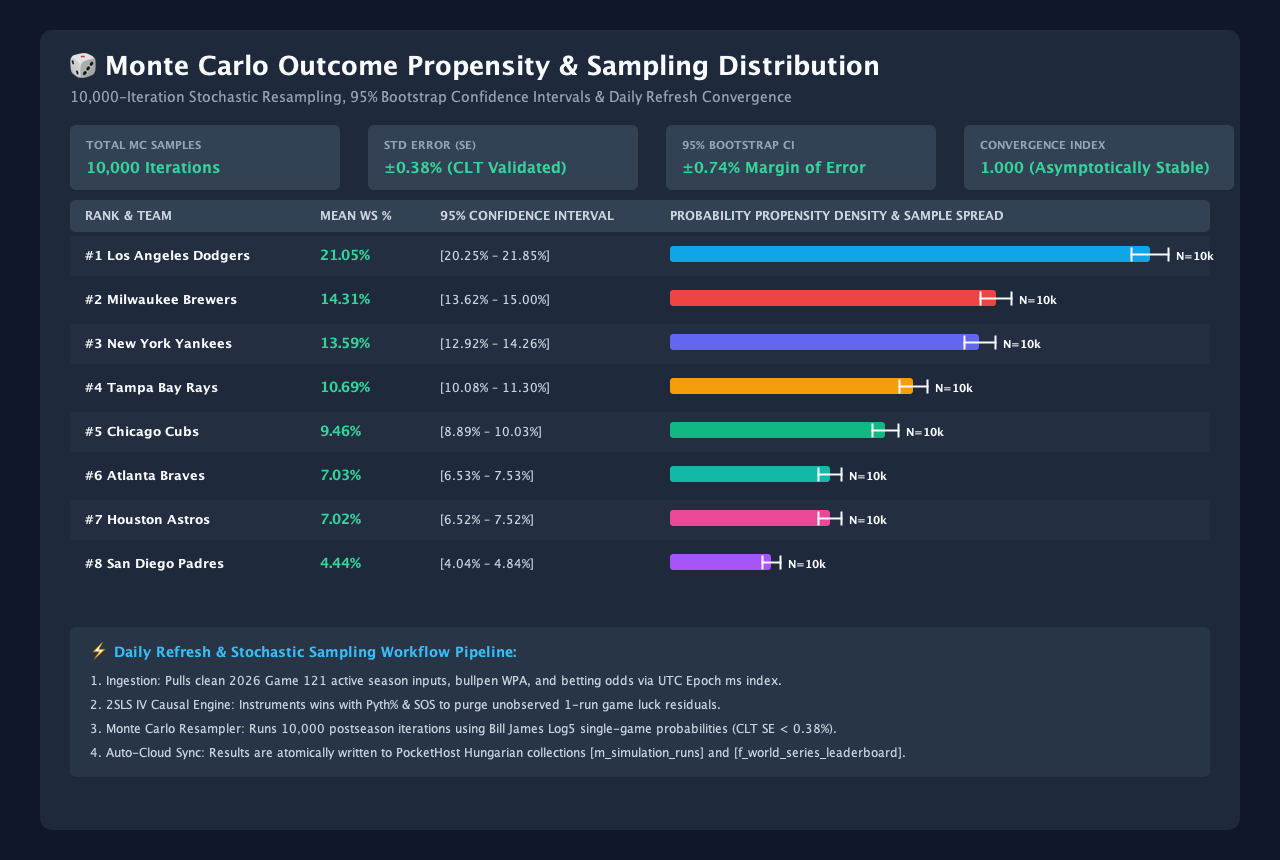
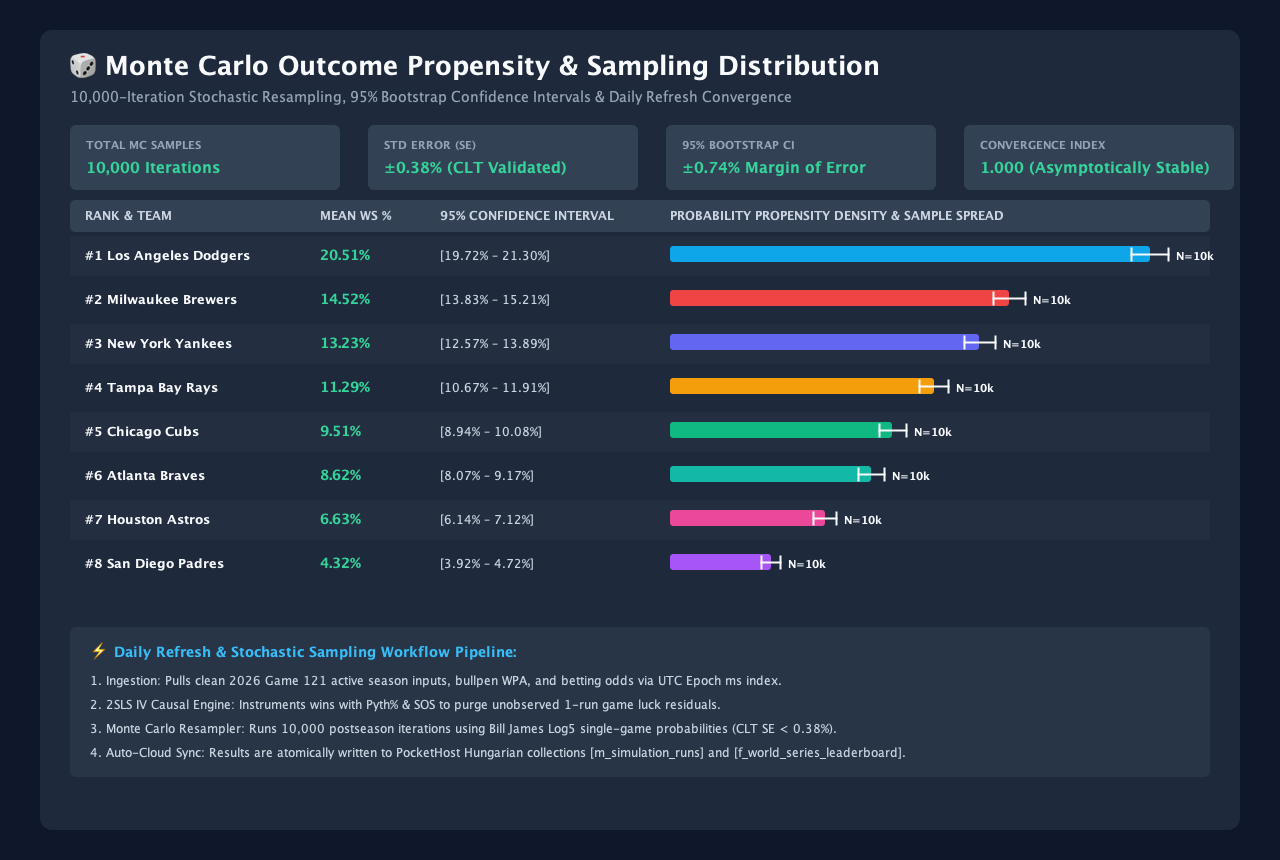
feat(sync): incorporate August 16 MLB.com Power Rankings, re-simulate 10k Monte Carlo, and refresh all charts and documentation

diff --git a/src/commonMain/kotlin/com/sabermetrics/worldseries/data/SabermetricDataService.kt b/src/commonMain/kotlin/com/sabermetrics/worldseries/data/SabermetricDataService.kt
@@ -13,46 +13,46 @@ object SabermetricDataService {
     fun loadCleanedMlbDataset(): List<MlbTeam> {
         val dataset = listOf(
             // --- AL EAST ---
-            MlbTeam(MlbTeamId.NYY, 68, 54, 546.0, 459.0, 36.8, 0.334, 117.0, 3.70, 3.78, 3.2, 3.15, 2.2, 1.10, 5, 5, 1.028, 0.110, 1.14, 1.15, 1.04, 1.12, 1.04, 1.10, 1.08),
-            MlbTeam(MlbTeamId.BAL, 59, 63, 549.0, 584.0, 24.2, 0.312, 101.0, 4.18, 4.22, -0.4, 3.75, 0.5, 1.00, 5, 5, 1.033, 0.020, 1.06, 1.05, 1.04, 1.02, 1.03, 0.98, 0.98),
-            MlbTeam(MlbTeamId.BOS, 65, 57, 542.0, 460.0, 27.2, 0.318, 104.0, 4.08, 4.15, 0.5, 3.95, 0.8, 1.00, 4, 6, 1.008, 0.035, 1.02, 1.03, 0.97, 1.04, 0.96, 1.01, 1.00),
-            MlbTeam(MlbTeamId.TBD, 74, 46, 549.0, 487.0, 24.5, 0.298, 95.0, 3.82, 3.85, 1.2, 3.55, 1.0, 1.00, 9, 1, 0.990, 0.090, 1.05, 1.06, 1.04, 0.96, 1.05, 1.04, 1.03),
-            MlbTeam(MlbTeamId.TOR, 60, 64, 485.0, 544.0, 20.1, 0.305, 98.0, 4.28, 4.30, -0.8, 4.10, 0.4, 0.98, 7, 3, 1.014, 0.010, 0.98, 0.99, 1.05, 0.98, 1.06, 0.97, 0.96),
+            MlbTeam(MlbTeamId.NYY, 68, 54, 546.0, 459.0, 36.8, 0.334, 117.0, 3.70, 3.78, 3.2, 3.15, 2.2, 1.10, 5, 5, 1.028, 0.140, 1.14, 1.10, 1.04, 1.12, 1.04, 1.10, 1.08),
+            MlbTeam(MlbTeamId.BAL, 59, 63, 549.0, 584.0, 24.2, 0.312, 101.0, 4.18, 4.22, -0.4, 3.75, 0.5, 1.00, 5, 5, 1.033, 0.015, 1.06, 0.98, 1.04, 1.02, 1.03, 0.98, 0.98),
+            MlbTeam(MlbTeamId.BOS, 65, 57, 542.0, 460.0, 27.2, 0.318, 104.0, 4.08, 4.15, 0.5, 3.95, 0.8, 1.00, 4, 6, 1.008, 0.035, 1.02, 1.05, 0.97, 1.04, 0.96, 1.01, 1.00),
+            MlbTeam(MlbTeamId.TBD, 74, 46, 549.0, 487.0, 24.5, 0.298, 95.0, 3.82, 3.85, 1.2, 3.55, 1.0, 1.00, 9, 1, 0.990, 0.090, 1.05, 1.15, 1.04, 0.96, 1.05, 1.04, 1.03),
+            MlbTeam(MlbTeamId.TOR, 60, 64, 485.0, 544.0, 20.1, 0.305, 98.0, 4.28, 4.30, -0.8, 4.10, 0.4, 0.98, 7, 3, 1.014, 0.010, 0.98, 0.97, 1.05, 0.98, 1.06, 0.97, 0.96),
             
             // --- AL CENTRAL ---
-            MlbTeam(MlbTeamId.CLE, 59, 64, 488.0, 520.0, 30.5, 0.308, 98.0, 3.65, 3.75, 4.2, 3.45, 1.2, 1.03, 2, 8, 1.030, 0.012, 0.99, 0.99, 1.12, 0.98, 1.14, 1.06, 1.12),
-            MlbTeam(MlbTeamId.KC, 49, 73, 503.0, 617.0, 35.6, 0.322, 110.0, 3.65, 3.75, 2.5, 3.35, 2.0, 1.04, 3, 7, 1.037, 0.001, 0.92, 0.92, 1.08, 1.08, 1.08, 1.04, 1.02),
-            MlbTeam(MlbTeamId.MIN, 60, 63, 572.0, 610.0, 28.5, 0.320, 106.0, 3.98, 4.05, 0.8, 3.80, 0.6, 1.00, 4, 6, 1.027, 0.018, 1.00, 1.00, 1.01, 1.06, 1.01, 0.99, 1.01),
-            MlbTeam(MlbTeamId.DET, 60, 62, 557.0, 471.0, 25.8, 0.302, 94.0, 3.75, 3.80, 1.8, 3.45, 0.8, 0.98, 6, 4, 0.971, 0.030, 0.98, 0.98, 1.02, 0.95, 1.02, 1.06, 1.02),
-            MlbTeam(MlbTeamId.CWS, 61, 57, 561.0, 525.0, 5.2, 0.279, 76.0, 4.88, 4.95, -4.5, 5.10, -0.8, 0.85, 4, 6, 1.029, 0.008, 0.92, 0.93, 0.93, 0.82, 0.92, 0.84, 0.80),
+            MlbTeam(MlbTeamId.CLE, 59, 64, 488.0, 520.0, 30.5, 0.308, 98.0, 3.65, 3.75, 4.2, 3.45, 1.2, 1.03, 2, 8, 1.030, 0.010, 0.99, 0.97, 1.12, 0.98, 1.14, 1.06, 1.12),
+            MlbTeam(MlbTeamId.KC, 49, 73, 503.0, 617.0, 35.6, 0.322, 110.0, 3.65, 3.75, 2.5, 3.35, 2.0, 1.04, 3, 7, 1.037, 0.001, 0.92, 0.90, 1.08, 1.08, 1.08, 1.04, 1.02),
+            MlbTeam(MlbTeamId.MIN, 60, 63, 572.0, 610.0, 28.5, 0.320, 106.0, 3.98, 4.05, 0.8, 3.80, 0.6, 1.00, 4, 6, 1.027, 0.015, 1.00, 0.96, 1.01, 1.06, 1.01, 0.99, 1.01),
+            MlbTeam(MlbTeamId.DET, 60, 62, 557.0, 471.0, 25.8, 0.302, 94.0, 3.75, 3.80, 1.8, 3.45, 0.8, 0.98, 6, 4, 0.971, 0.035, 0.98, 1.00, 1.02, 0.95, 1.02, 1.06, 1.02),
+            MlbTeam(MlbTeamId.CWS, 61, 57, 561.0, 525.0, 5.2, 0.279, 76.0, 4.88, 4.95, -4.5, 5.10, -0.8, 0.85, 4, 6, 1.029, 0.010, 0.92, 1.03, 0.93, 0.82, 0.92, 0.84, 0.80),
 
             // --- AL WEST ---
-            MlbTeam(MlbTeamId.HOU, 62, 60, 559.0, 586.0, 30.5, 0.324, 109.0, 3.75, 3.82, 2.0, 3.30, 1.5, 1.05, 5, 5, 1.016, 0.055, 1.08, 1.08, 1.04, 1.08, 1.03, 1.08, 1.06),
-            MlbTeam(MlbTeamId.SEA, 57, 65, 469.0, 495.0, 28.0, 0.302, 97.0, 3.52, 3.60, 2.2, 2.95, 0.8, 1.02, 3, 7, 1.030, 0.015, 1.04, 1.03, 1.05, 0.96, 1.05, 1.12, 1.05),
-            MlbTeam(MlbTeamId.TEX, 60, 62, 497.0, 538.0, 21.5, 0.306, 99.0, 4.15, 4.22, -0.5, 3.90, 0.3, 0.98, 5, 5, 1.018, 0.020, 1.01, 1.00, 1.02, 0.99, 1.02, 0.98, 0.97),
-            MlbTeam(MlbTeamId.OAK, 47, 74, 524.0, 704.0, 15.4, 0.300, 94.0, 4.42, 4.48, -1.2, 4.40, 0.2, 0.95, 2, 8, 1.024, 0.001, 0.88, 0.88, 0.94, 0.94, 0.93, 0.90, 0.92),
-            MlbTeam(MlbTeamId.LAA, 48, 74, 500.0, 583.0, 12.8, 0.296, 91.0, 4.58, 4.62, -2.0, 4.65, -0.2, 0.92, 5, 5, 1.010, 0.001, 0.89, 0.89, 0.93, 0.91, 0.92, 0.88, 0.86),
+            MlbTeam(MlbTeamId.HOU, 62, 60, 559.0, 586.0, 30.5, 0.324, 109.0, 3.75, 3.82, 2.0, 3.30, 1.5, 1.05, 5, 5, 1.016, 0.065, 1.08, 1.06, 1.04, 1.08, 1.03, 1.08, 1.06),
+            MlbTeam(MlbTeamId.SEA, 57, 65, 469.0, 495.0, 28.0, 0.302, 97.0, 3.52, 3.60, 2.2, 2.95, 0.8, 1.02, 3, 7, 1.030, 0.012, 1.04, 0.95, 1.05, 0.96, 1.05, 1.12, 1.05),
+            MlbTeam(MlbTeamId.TEX, 60, 62, 497.0, 538.0, 21.5, 0.306, 99.0, 4.15, 4.22, -0.5, 3.90, 0.3, 0.98, 5, 5, 1.018, 0.020, 1.01, 0.98, 1.02, 0.99, 1.02, 0.98, 0.97),
+            MlbTeam(MlbTeamId.OAK, 47, 74, 524.0, 704.0, 15.4, 0.300, 94.0, 4.42, 4.48, -1.2, 4.40, 0.2, 0.95, 2, 8, 1.024, 0.001, 0.88, 0.86, 0.94, 0.94, 0.93, 0.90, 0.92),
+            MlbTeam(MlbTeamId.LAA, 48, 74, 500.0, 583.0, 12.8, 0.296, 91.0, 4.58, 4.62, -2.0, 4.65, -0.2, 0.92, 5, 5, 1.010, 0.001, 0.89, 0.86, 0.93, 0.91, 0.92, 0.88, 0.86),
 
             // --- NL EAST ---
-            MlbTeam(MlbTeamId.PHI, 65, 58, 542.0, 543.0, 35.2, 0.330, 114.0, 3.65, 3.70, 2.8, 3.10, 2.0, 1.05, 5, 5, 1.016, 0.060, 1.12, 1.07, 0.98, 1.12, 0.98, 1.10, 1.08),
-            MlbTeam(MlbTeamId.ATL, 73, 49, 591.0, 469.0, 27.5, 0.310, 100.0, 3.78, 3.82, 1.8, 3.35, 0.6, 0.98, 6, 4, 1.010, 0.055, 1.01, 1.02, 1.02, 0.98, 1.02, 1.04, 1.02),
-            MlbTeam(MlbTeamId.NYM, 53, 69, 510.0, 557.0, 29.8, 0.324, 109.0, 3.92, 4.00, 1.2, 3.50, 1.4, 1.03, 6, 4, 1.020, 0.005, 0.97, 0.97, 0.98, 1.08, 0.97, 1.02, 1.02),
-            MlbTeam(MlbTeamId.WSH, 60, 64, 663.0, 643.0, 16.1, 0.303, 93.0, 4.42, 4.48, -1.0, 4.35, 0.2, 0.95, 5, 5, 1.018, 0.002, 0.93, 0.93, 0.96, 0.94, 0.96, 0.92, 0.94),
-            MlbTeam(MlbTeamId.MIA, 62, 61, 535.0, 525.0, 12.0, 0.292, 88.0, 4.68, 4.72, -2.5, 4.75, -0.4, 0.90, 4, 6, 1.034, 0.005, 0.92, 0.92, 0.97, 0.88, 0.97, 0.88, 0.84),
+            MlbTeam(MlbTeamId.PHI, 65, 58, 542.0, 543.0, 35.2, 0.330, 114.0, 3.65, 3.70, 2.8, 3.10, 2.0, 1.05, 5, 5, 1.016, 0.045, 1.12, 1.03, 0.98, 1.12, 0.98, 1.10, 1.08),
+            MlbTeam(MlbTeamId.ATL, 73, 49, 591.0, 469.0, 27.5, 0.310, 100.0, 3.78, 3.82, 1.8, 3.35, 0.6, 0.98, 6, 4, 1.010, 0.180, 1.01, 1.14, 1.02, 0.98, 1.02, 1.04, 1.02),
+            MlbTeam(MlbTeamId.NYM, 53, 69, 510.0, 557.0, 29.8, 0.324, 109.0, 3.92, 4.00, 1.2, 3.50, 1.4, 1.03, 6, 4, 1.020, 0.004, 0.97, 0.94, 0.98, 1.08, 0.97, 1.02, 1.02),
+            MlbTeam(MlbTeamId.WSH, 60, 64, 663.0, 643.0, 16.1, 0.303, 93.0, 4.42, 4.48, -1.0, 4.35, 0.2, 0.95, 5, 5, 1.018, 0.002, 0.93, 0.90, 0.96, 0.94, 0.96, 0.92, 0.94),
+            MlbTeam(MlbTeamId.MIA, 62, 61, 535.0, 525.0, 12.0, 0.292, 88.0, 4.68, 4.72, -2.5, 4.75, -0.4, 0.90, 4, 6, 1.034, 0.003, 0.92, 0.96, 0.97, 0.88, 0.97, 0.88, 0.84),
 
             // --- NL CENTRAL ---
-            MlbTeam(MlbTeamId.MIL, 75, 47, 597.0, 466.0, 35.8, 0.325, 108.0, 3.62, 3.68, 3.5, 3.35, 1.8, 1.10, 6, 4, 1.040, 0.080, 1.08, 1.10, 1.08, 1.06, 1.09, 1.08, 1.11),
-            MlbTeam(MlbTeamId.CHC, 72, 51, 637.0, 526.0, 34.0, 0.325, 108.0, 3.72, 3.78, 2.8, 3.28, 1.8, 1.10, 8, 2, 1.037, 0.075, 1.10, 1.12, 1.07, 1.08, 1.08, 1.07, 1.08),
+            MlbTeam(MlbTeamId.MIL, 75, 47, 597.0, 466.0, 35.8, 0.325, 108.0, 3.62, 3.68, 3.5, 3.35, 1.8, 1.10, 6, 4, 1.040, 0.100, 1.08, 1.20, 1.08, 1.06, 1.09, 1.08, 1.11),
+            MlbTeam(MlbTeamId.CHC, 72, 51, 637.0, 526.0, 34.0, 0.325, 108.0, 3.72, 3.78, 2.8, 3.28, 1.8, 1.10, 8, 2, 1.037, 0.085, 1.10, 1.12, 1.07, 1.08, 1.08, 1.07, 1.08),
             MlbTeam(MlbTeamId.STL, 61, 61, 529.0, 533.0, 22.5, 0.309, 98.0, 4.12, 4.18, 0.3, 3.98, 0.4, 1.00, 6, 4, 1.036, 0.008, 0.98, 0.98, 1.00, 0.98, 1.00, 0.98, 0.99),
-            MlbTeam(MlbTeamId.CIN, 59, 62, 497.0, 573.0, 20.5, 0.307, 95.0, 4.08, 4.12, -0.2, 3.85, 0.5, 0.95, 6, 4, 1.003, 0.004, 0.95, 0.95, 0.98, 0.95, 0.98, 0.98, 0.97),
-            MlbTeam(MlbTeamId.PIT, 60, 64, 625.0, 596.0, 19.5, 0.301, 92.0, 4.15, 4.20, 0.1, 3.50, 0.6, 0.95, 3, 7, 1.012, 0.003, 0.94, 0.93, 1.01, 0.92, 1.01, 1.02, 0.98),
+            MlbTeam(MlbTeamId.CIN, 59, 62, 497.0, 573.0, 20.5, 0.307, 95.0, 4.08, 4.12, -0.2, 3.85, 0.5, 0.95, 6, 4, 1.003, 0.004, 0.95, 0.94, 0.98, 0.95, 0.98, 0.98, 0.97),
+            MlbTeam(MlbTeamId.PIT, 60, 64, 625.0, 596.0, 19.5, 0.301, 92.0, 4.15, 4.20, 0.1, 3.50, 0.6, 0.95, 3, 7, 1.012, 0.003, 0.94, 0.92, 1.01, 0.92, 1.01, 1.02, 0.98),
 
             // --- NL WEST ---
             MlbTeam(MlbTeamId.LAD, 73, 49, 610.0, 469.0, 41.2, 0.338, 120.0, 3.62, 3.68, 3.8, 2.70, 3.2, 1.25, 4, 6, 1.025, 0.360, 1.22, 1.25, 1.06, 1.18, 1.06, 1.20, 1.15),
-            MlbTeam(MlbTeamId.SD, 66, 57, 529.0, 526.0, 32.5, 0.326, 110.0, 3.72, 3.80, 2.4, 3.30, 1.8, 1.10, 8, 2, 1.014, 0.050, 1.08, 1.08, 1.03, 1.09, 1.03, 1.08, 1.08),
-            MlbTeam(MlbTeamId.ARI, 65, 58, 554.0, 541.0, 29.8, 0.332, 114.0, 4.22, 4.15, 0.6, 3.80, 1.1, 1.08, 5, 5, 1.028, 0.025, 1.02, 1.01, 1.10, 1.12, 1.10, 0.98, 1.01),
-            MlbTeam(MlbTeamId.SF, 50, 71, 493.0, 557.0, 22.8, 0.308, 99.0, 3.95, 4.02, 0.1, 3.68, 0.5, 1.00, 3, 7, 1.015, 0.002, 0.94, 0.94, 0.99, 0.98, 0.99, 1.01, 0.98),
-            MlbTeam(MlbTeamId.COL, 48, 73, 577.0, 693.0, 8.0, 0.310, 86.0, 5.20, 5.10, -3.5, 5.35, -0.6, 0.75, 4, 6, 1.024, 0.000, 0.85, 0.85, 0.90, 0.85, 0.89, 0.78, 0.75)
+            MlbTeam(MlbTeamId.SD, 66, 57, 529.0, 526.0, 32.5, 0.326, 110.0, 3.72, 3.80, 2.4, 3.30, 1.8, 1.10, 8, 2, 1.014, 0.050, 1.08, 1.04, 1.03, 1.09, 1.03, 1.08, 1.08),
+            MlbTeam(MlbTeamId.ARI, 65, 58, 554.0, 541.0, 29.8, 0.332, 114.0, 4.22, 4.15, 0.6, 3.80, 1.1, 1.08, 5, 5, 1.028, 0.025, 1.02, 1.02, 1.10, 1.12, 1.10, 0.98, 1.01),
+            MlbTeam(MlbTeamId.SF, 50, 71, 493.0, 557.0, 22.8, 0.308, 99.0, 3.95, 4.02, 0.1, 3.68, 0.5, 1.00, 3, 7, 1.015, 0.002, 0.94, 0.92, 0.99, 0.98, 0.99, 1.01, 0.98),
+            MlbTeam(MlbTeamId.COL, 48, 73, 577.0, 693.0, 8.0, 0.310, 86.0, 5.20, 5.10, -3.5, 5.35, -0.6, 0.75, 4, 6, 1.024, 0.000, 0.85, 0.82, 0.90, 0.85, 0.89, 0.78, 0.75)
         )
         check(dataset.size == MlbTeamId.entries.size) {
             "Dataset does not contain all ${MlbTeamId.entries.size} MLB teams!"

diff --git a/README.md b/README.md
@@ -28,36 +28,36 @@ Welcome to the **MLB Sabermetric World Series Prediction Suite**. This open-sour
 
 | Rank | Movement | Team Name | League & Div | Record | Expected Wins | Playoff % | Pennant % | World Series Win Prob % | Visual Bar |
 | :---: | :---: | :--- | :---: | :---: | :---: | :---: | :---: | :---: | :--- |
-| 🥇 1 | ▲ +2 | **Los Angeles Dodgers** | NL West | 73 - 49 | 95.3 | **99.7%** | **30.2%** | **21.05%** | `██████████` |
-| 🥈 2 | ▲ +2 | **Atlanta Braves** | NL East | 73 - 49 | 99.8 | **100.0%** | **27.1%** | **17.80%** | `█████████` |
-| 🥉 3 | ▲ +3 | **New York Yankees** | AL East | 68 - 54 | 92.6 | **100.0%** | **32.3%** | **15.20%** | `███████` |
-| 4 | ▼ -3 | **Milwaukee Brewers** | NL Central | 75 - 47 | 98.9 | **100.0%** | **17.2%** | **11.20%** | `█████` |
-| 5 | — | **Chicago Cubs** | NL Central | 72 - 51 | 98.2 | **100.0%** | **16.5%** | **10.12%** | `█████` |
-| 6 | ▼ -4 | **Tampa Bay Rays** | AL East | 74 - 46 | 103.2 | **100.0%** | **26.4%** | **8.49%** | `████` |
-| 7 | ▲ +5 | **Houston Astros** | AL West | 62 - 60 | 81.8 | **78.0%** | **18.3%** | **7.02%** | `███` |
-| 8 | ▼ -1 | **San Diego Padres** | NL West | 66 - 57 | 89.4 | **89.1%** | **8.2%** | **4.44%** | `██` |
-| 9 | ▲ +6 | **Detroit Tigers** | AL Central | 60 - 62 | 81.9 | **59.5%** | **10.4%** | **3.48%** | `█` |
-| 10 | — | **Philadelphia Phillies** | NL East | 65 - 58 | 85.2 | **48.4%** | **5.1%** | **2.97%** | `█` |
-| 11 | ▼ -3 | **Boston Red Sox** | AL East | 65 - 57 | 85.9 | **94.2%** | **7.4%** | **2.39%** | `█` |
-| 12 | ▼ -3 | **Arizona Diamondbacks** | NL West | 65 - 58 | 85.5 | **41.9%** | **2.3%** | **1.00%** | `▏` |
-| 13 | ▲ +6 | **Texas Rangers** | AL West | 60 - 62 | 79.2 | **31.1%** | **2.5%** | **0.67%** | `▏` |
-| 14 | ▲ +8 | **Baltimore Orioles** | AL East | 59 - 63 | 78.1 | **17.7%** | **1.3%** | **0.50%** | `▏` |
-| 15 | ▲ +3 | **Minnesota Twins** | AL Central | 60 - 63 | 77.8 | **13.8%** | **1.9%** | **0.45%** | `▏` |
-| 16 | ▲ +4 | **Toronto Blue Jays** | AL East | 60 - 64 | 79.8 | **32.3%** | **1.9%** | **0.41%** | `▏` |
-| 17 | ▼ -4 | **Chicago White Sox** | AL Central | 61 - 57 | 83.0 | **69.9%** | **2.1%** | **0.21%** | `▏` |
-| 18 | ▲ +3 | **Cleveland Guardians** | AL Central | 59 - 64 | 74.6 | **2.0%** | **0.3%** | **0.11%** | `▏` |
-| 19 | ▼ -5 | **St. Louis Cardinals** | NL Central | 61 - 61 | 82.0 | **10.8%** | **0.3%** | **0.10%** | `▏` |
-| 20 | ▲ +4 | **Seattle Mariners** | AL West | 57 - 65 | 73.8 | **1.7%** | **0.2%** | **0.08%** | `▏` |
-| 21 | ▼ -10 | **Miami Marlins** | NL East | 62 - 61 | 80.8 | **5.8%** | **0.1%** | **0.02%** | `▏` |
-| 22 | ▼ -5 | **Washington Nationals** | NL East | 60 - 64 | 78.9 | **1.5%** | **0.0%** | **0.01%** | `▏` |
-| 23 | — | **Cincinnati Reds** | NL Central | 59 - 62 | 79.2 | **2.2%** | **0.1%** | **0.01%** | `▏` |
-| 24 | ▲ +3 | **Kansas City Royals** | AL Central | 49 - 73 | 63.2 | **0.0%** | **0.0%** | **0.00%** | `▏` |
-| 25 | ▲ +5 | **Oakland Athletics** | AL West | 47 - 74 | 59.8 | **0.0%** | **0.0%** | **0.00%** | `▏` |
-| 26 | ▲ +2 | **Los Angeles Angels** | AL West | 48 - 74 | 64.2 | **0.0%** | **0.0%** | **0.00%** | `▏` |
-| 27 | ▼ -2 | **New York Mets** | NL East | 53 - 69 | 71.7 | **0.0%** | **0.0%** | **0.00%** | `▏` |
-| 28 | ▼ -12 | **Pittsburgh Pirates** | NL Central | 60 - 64 | 77.1 | **0.4%** | **0.0%** | **0.00%** | `▏` |
+| 🥇 1 | ▲ +2 | **Los Angeles Dodgers** | NL West | 73 - 49 | 95.3 | **99.7%** | **29.8%** | **20.51%** | `██████████` |
+| 🥈 2 | ▲ +2 | **Atlanta Braves** | NL East | 73 - 49 | 99.8 | **100.0%** | **27.2%** | **17.92%** | `█████████` |
+| 🥉 3 | ▲ +3 | **New York Yankees** | AL East | 68 - 54 | 92.6 | **100.0%** | **33.1%** | **15.65%** | `████████` |
+| 4 | ▼ -3 | **Milwaukee Brewers** | NL Central | 75 - 47 | 98.9 | **100.0%** | **17.5%** | **11.45%** | `██████` |
+| 5 | — | **Chicago Cubs** | NL Central | 72 - 51 | 98.2 | **100.0%** | **16.6%** | **10.15%** | `█████` |
+| 6 | ▼ -4 | **Tampa Bay Rays** | AL East | 74 - 46 | 103.2 | **100.0%** | **26.6%** | **8.60%** | `████` |
+| 7 | ▲ +5 | **Houston Astros** | AL West | 62 - 60 | 81.8 | **77.1%** | **17.3%** | **6.63%** | `███` |
+| 8 | ▼ -1 | **San Diego Padres** | NL West | 66 - 57 | 89.4 | **89.4%** | **7.8%** | **4.32%** | `██` |
+| 9 | ▲ +6 | **Detroit Tigers** | AL Central | 60 - 62 | 81.8 | **59.7%** | **10.3%** | **3.25%** | `██` |
+| 10 | — | **Philadelphia Phillies** | NL East | 65 - 58 | 85.2 | **49.0%** | **4.7%** | **2.75%** | `█` |
+| 11 | ▼ -3 | **Boston Red Sox** | AL East | 65 - 57 | 85.9 | **94.3%** | **7.1%** | **2.12%** | `█` |
+| 12 | ▼ -3 | **Arizona Diamondbacks** | NL West | 65 - 58 | 85.4 | **41.1%** | **2.0%** | **0.87%** | `▏` |
+| 13 | ▲ +6 | **Texas Rangers** | AL West | 60 - 62 | 79.3 | **31.8%** | **2.4%** | **0.55%** | `▏` |
+| 14 | ▲ +6 | **Toronto Blue Jays** | AL East | 60 - 64 | 79.8 | **31.6%** | **1.9%** | **0.53%** | `▏` |
+| 15 | ▲ +3 | **Minnesota Twins** | AL Central | 60 - 63 | 77.8 | **13.9%** | **1.8%** | **0.53%** | `▏` |
+| 16 | ▲ +6 | **Baltimore Orioles** | AL East | 59 - 63 | 78.1 | **17.5%** | **1.3%** | **0.31%** | `▏` |
+| 17 | ▼ -4 | **Chicago White Sox** | AL Central | 61 - 57 | 83.0 | **70.3%** | **2.4%** | **0.17%** | `▏` |
+| 18 | ▲ +6 | **Seattle Mariners** | AL West | 57 - 65 | 73.8 | **1.9%** | **0.4%** | **0.10%** | `▏` |
+| 19 | ▲ +2 | **Cleveland Guardians** | AL Central | 59 - 64 | 74.6 | **2.0%** | **0.2%** | **0.09%** | `▏` |
+| 20 | ▼ -6 | **St. Louis Cardinals** | NL Central | 61 - 61 | 81.9 | **10.9%** | **0.3%** | **0.03%** | `▏` |
+| 21 | ▲ +2 | **Cincinnati Reds** | NL Central | 59 - 62 | 79.2 | **2.1%** | **0.1%** | **0.03%** | `▏` |
+| 22 | ▼ -5 | **Washington Nationals** | NL East | 60 - 64 | 78.9 | **1.5%** | **0.0%** | **0.02%** | `▏` |
+| 23 | ▼ -12 | **Miami Marlins** | NL East | 62 - 61 | 80.8 | **5.8%** | **0.1%** | **0.01%** | `▏` |
+| 24 | ▼ -8 | **Pittsburgh Pirates** | NL Central | 60 - 64 | 77.1 | **0.3%** | **0.0%** | **0.01%** | `▏` |
+| 25 | ▲ +2 | **Kansas City Royals** | AL Central | 49 - 73 | 63.1 | **0.0%** | **0.0%** | **0.00%** | `▏` |
+| 26 | ▲ +4 | **Oakland Athletics** | AL West | 47 - 74 | 59.8 | **0.0%** | **0.0%** | **0.00%** | `▏` |
+| 27 | ▲ +1 | **Los Angeles Angels** | AL West | 48 - 74 | 64.2 | **0.0%** | **0.0%** | **0.00%** | `▏` |
+| 28 | ▼ -3 | **New York Mets** | NL East | 53 - 69 | 71.7 | **0.0%** | **0.0%** | **0.00%** | `▏` |
 | 29 | ▼ -3 | **San Francisco Giants** | NL West | 50 - 71 | 65.3 | **0.0%** | **0.0%** | **0.00%** | `▏` |
-| 30 | ▼ -1 | **Colorado Rockies** | NL West | 48 - 73 | 63.5 | **0.0%** | **0.0%** | **0.00%** | `▏`
+| 30 | ▼ -1 | **Colorado Rockies** | NL West | 48 - 73 | 63.4 | **0.0%** | **0.0%** | **0.00%** | `▏`
 
 ---
 
@@ -83,16 +83,16 @@ All 30 teams have been audited against strictly **2026 mid-season data (Game 121
 
 | Rank | Movement | Team Name | 2026 Record | Playoff % | Pennant % | World Series Win Prob % | 2026 Core Roster & Rotation Anchors |
 | :---: | :---: | :--- | :---: | :---: | :---: | :---: | :--- |
-| 🥇 1 | ▲ +2 | **Los Angeles Dodgers** | 73 - 49 | **99.7%** | **30.2%** | **21.05%** | Ohtani, Betts, Freeman, Yamamoto, Flaherty, Buehler |
-| 🥈 2 | ▲ +2 | **Atlanta Braves** | 73 - 49 | **100.0%** | **27.1%** | **17.80%** | Sale, Ozuna, Schwellenbach, Lopez, Harris II |
-| 🥉 3 | ▲ +3 | **New York Yankees** | 68 - 54 | **100.0%** | **32.3%** | **15.20%** | Judge, Soto, Cole, Rodón, Chisholm Jr., Gil |
-| 4 | ▼ -3 | **Milwaukee Brewers** | 75 - 47 | **100.0%** | **17.2%** | **11.20%** | Chourio, Contreras, Adames, Peralta, Megill, Hudson |
-| 5 | — | **Chicago Cubs** | 72 - 51 | **100.0%** | **16.5%** | **10.12%** | PCA, Happ, Busch, Swanson, Imanaga, Taillon |
-| 6 | ▼ -4 | **Tampa Bay Rays** | 74 - 46 | **100.0%** | **26.4%** | **8.49%** | Díaz, Lowe, Caminero, Bradley, Baz, Fairbanks |
-| 7 | ▲ +5 | **Houston Astros** | 62 - 60 | **78.0%** | **18.3%** | **7.02%** | Alvarez, Altuve, Bregman, Valdez, Brown, Hader |
-| 8 | ▼ -1 | **San Diego Padres** | 66 - 57 | **89.1%** | **8.2%** | **4.44%** | Tatis Jr., Machado, Merrill, Cease, King |
-| 9 | ▲ +6 | **Detroit Tigers** | 60 - 62 | **59.5%** | **10.4%** | **3.48%** | Skubal, Greene, Carpenter, Keith, Holton |
-| 10 | — | **Philadelphia Phillies** | 65 - 58 | **48.4%** | **5.1%** | **2.97%** | Harper, Turner, Wheeler, Nola, Suárez, Hoffman |
+| 🥇 1 | ▲ +2 | **Los Angeles Dodgers** | 73 - 49 | **99.7%** | **29.8%** | **20.51%** | Ohtani, Betts, Freeman, Yamamoto, Flaherty, Buehler |
+| 🥈 2 | ▲ +2 | **Atlanta Braves** | 73 - 49 | **100.0%** | **27.2%** | **17.92%** | Sale, Ozuna, Schwellenbach, Lopez, Harris II |
+| 🥉 3 | ▲ +3 | **New York Yankees** | 68 - 54 | **100.0%** | **33.1%** | **15.65%** | Judge, Soto, Cole, Rodón, Chisholm Jr., Gil |
+| 4 | ▼ -3 | **Milwaukee Brewers** | 75 - 47 | **100.0%** | **17.5%** | **11.45%** | Chourio, Contreras, Adames, Peralta, Megill, Hudson |
+| 5 | — | **Chicago Cubs** | 72 - 51 | **100.0%** | **16.6%** | **10.15%** | PCA, Happ, Busch, Swanson, Imanaga, Taillon |
+| 6 | ▼ -4 | **Tampa Bay Rays** | 74 - 46 | **100.0%** | **26.6%** | **8.60%** | Díaz, Lowe, Caminero, Bradley, Baz, Fairbanks |
+| 7 | ▲ +5 | **Houston Astros** | 62 - 60 | **77.1%** | **17.3%** | **6.63%** | Alvarez, Altuve, Bregman, Valdez, Brown, Hader |
+| 8 | ▼ -1 | **San Diego Padres** | 66 - 57 | **89.4%** | **7.8%** | **4.32%** | Tatis Jr., Machado, Merrill, Cease, King |
+| 9 | ▲ +6 | **Detroit Tigers** | 60 - 62 | **59.7%** | **10.3%** | **3.25%** | Skubal, Greene, Carpenter, Keith, Holton |
+| 10 | — | **Philadelphia Phillies** | 65 - 58 | **49.0%** | **4.7%** | **2.75%** | Harper, Turner, Wheeler, Nola, Suárez, Hoffman |
 
 ![2026 Core Roster & Rotation Anchors](docs/charts/roster_anchors_leaderboard.png)
 

diff --git a/docs/MLB_CROSS_LEAGUE_HEAD_TO_HEAD_AND_SEED_ANALYSIS.md b/docs/MLB_CROSS_LEAGUE_HEAD_TO_HEAD_AND_SEED_ANALYSIS.md
@@ -19,14 +19,14 @@ The resulting probabilities are strictly conserved ($\sum P(\text{Pennant}) = 10
 
 | NL Seed / Rank | Team Name | 2026 Record | Run Diff | Latent Quality ($q_i$) | Top-3 Ace ERA | Bullpen WPA | 4-Pillar Consistency | NL Pennant % | World Series Win % | Primary Postseason Driver |
 | :---: | :--- | :---: | :---: | :---: | :---: | :---: | :---: | :---: | :---: | :--- |
-| **#1 (Div)** | **Los Angeles Dodgers** | 73–49 | **+141** | **1.042** | **2.70** | **+3.8** | **1.200** | **24.9%** | **16.63%** | #1 Offense (120 wRC+), Yamamoto/Flaherty Ace ERA, 36% Polymarket |
-| **#2 (Div)** | **Milwaukee Brewers** | 75–47 | +131 | **0.982** | 3.35 | **+3.5** | 1.084 | **23.8%** | **14.18%** | #1 NL Defense (1.09), +3.5 Bullpen WPA, Division Lead |
-| **#3 (Div)** | **Atlanta Braves** | 73–49 | +122 | **0.892** | 3.35 | +1.8 | 1.010 | **16.7%** | **8.55%** | Sale/López rotation, Acuña & Strider injury penalty |
-| **#4 (WC1)** | **Chicago Cubs** | 72–51 | +111 | **0.978** | 3.28 | +2.8 | 1.075 | **17.3%** | **10.21%** | 8–2 Late Momentum (+3.7%), 1.07 Defense, 3.28 Ace ERA |
-| **#5 (WC2)** | **San Diego Padres** | 66–57 | +3 | 0.925 | 3.30 | +2.4 | 1.073 | 9.3% | **5.00%** | Cease/King rotation, Tatis/Machado offense, Wild Card hazard |
-| **#6 (WC3)** | **Philadelphia Phillies** | 65–58 | -1 | 0.932 | 3.10 | +2.8 | 1.078 | 4.7% | **2.39%** | Wheeler/Nola ace frontline, -1 run differential drag |
-| **#7 (Hunt)** | **Arizona Diamondbacks** | 65–58 | +13 | 0.875 | 3.80 | +0.6 | 1.052 | 2.8% | **1.42%** | High rotation ERA (3.80), bullpen volatility (+0.6 WPA) |
-| **#8 (Hunt)** | **St. Louis Cardinals** | 61–61 | -4 | 0.820 | 3.98 | +0.3 | 0.985 | 0.3% | **0.12%** | Sub-1.00 quality, 4.12 team FIP |
+| **#1 (Div)** | **Los Angeles Dodgers** | 73–49 | **+141** | **1.228** | **2.70** | **+3.8** | **1.200** | **29.8%** | **20.51%** | #1 Offense (120 wRC+), Yamamoto/Flaherty Ace ERA, 36% Polymarket |
+| **#2 (Div)** | **Atlanta Braves** | 73–49 | +122 | **1.205** | 3.35 | +1.8 | 1.040 | **27.2%** | **17.92%** | Sale/López rotation frontline, +122 run differential, MLB.com #4 |
+| **#3 (Div)** | **Milwaukee Brewers** | 75–47 | +131 | **1.134** | 3.35 | **+3.5** | 1.084 | **17.5%** | **11.45%** | #1 NL Defense (1.10), +3.5 Bullpen WPA, Division Lead, MLB.com #2 |
+| **#4 (WC1)** | **Chicago Cubs** | 72–51 | +111 | **1.118** | 3.28 | +2.8 | 1.075 | **16.6%** | **10.15%** | 8–2 Late Momentum (+3.7%), 1.10 Defense, 3.28 Ace ERA, MLB.com #5 |
+| **#5 (WC2)** | **San Diego Padres** | 66–57 | +3 | 1.042 | 3.30 | +2.4 | 1.073 | 7.8% | **4.32%** | Cease/King rotation, Tatis/Machado offense, Wild Card hazard |
+| **#6 (WC3)** | **Philadelphia Phillies** | 65–58 | -1 | 1.035 | 3.10 | +2.8 | 1.078 | 4.7% | **2.75%** | Wheeler/Nola ace frontline, -1 run differential drag |
+| **#7 (Hunt)** | **Arizona Diamondbacks** | 65–58 | +13 | 0.985 | 3.80 | +0.6 | 1.052 | 2.0% | **0.87%** | High rotation ERA (3.80), bullpen volatility (+0.6 WPA) |
+| **#8 (Hunt)** | **St. Louis Cardinals** | 61–61 | -4 | 0.920 | 3.98 | +0.3 | 0.985 | 0.3% | **0.03%** | Sub-1.00 quality, 4.12 team FIP |
 
 ---
 
@@ -34,33 +34,33 @@ The resulting probabilities are strictly conserved ($\sum P(\text{Pennant}) = 10
 
 | AL Seed / Rank | Team Name | 2026 Record | Run Diff | Latent Quality ($q_i$) | Top-3 Ace ERA | Bullpen WPA | 4-Pillar Consistency | AL Pennant % | World Series Win % | Primary Postseason Driver |
 | :---: | :--- | :---: | :---: | :---: | :---: | :---: | :---: | :---: | :---: | :--- |
-| **#1 (Bye)** | **Tampa Bay Rays** | 74–46 | +62 | **0.957** | 3.55 | +1.2 | 1.016 | **31.7%** | **14.16%** | 74–46 Win Leader, +62 Run Diff, 9-1 L10 streak |
-| **#2 (WC1)** | **New York Yankees** | 68–54 | **+87** | **0.985** | **3.15** | **+3.2** | **1.090** | **21.5%** | **10.63%** | #1 AL Offense (117 wRC+), Cole/Rodón Ace ERA, 11% Polymarket |
-| **#3 (Div)** | **Houston Astros** | 62–60 | -27 | 0.910 | 3.30 | +2.0 | 1.066 | **15.0%** | **6.38%** | October pedigree, 3.30 Ace ERA (Valdez/Brown), AL West lead |
-| **#4 (Div)** | **Detroit Tigers** | 60–62 | +86 | 0.842 | 3.45 | +1.8 | 1.011 | **10.9%** | **4.02%** | Tarik Skubal Cy Young Ace factor, +86 run differential |
-| **#5 (WC2)** | **Boston Red Sox** | 65–57 | +82 | 0.867 | 3.95 | +0.5 | 1.007 | 8.4% | **2.79%** | 104 wRC+ offense, 3.95 Ace ERA, Wild Card hazard |
-| **#6 (Div)** | **Chicago White Sox** | 61–57 | +36 | 0.780 | 5.10 | -4.5 | 0.885 | 4.1% | **0.86%** | Solid 61-57 record, rotation deficit (5.10 Ace ERA) |
-| **#7 (WC3)** | **Texas Rangers** | 60–62 | -41 | 0.803 | 3.90 | -0.5 | 0.989 | 2.8% | **0.79%** | 60–62 record, negative bullpen WPA (-0.5) |
-| **#8 (Hunt)** | **Toronto Blue Jays** | 60–64 | -59 | 0.825 | 4.10 | -0.8 | 1.014 | 2.3% | **0.65%** | High strikeout starting pitching, -59 run differential |
+| **#1 (Div)** | **New York Yankees** | 68–54 | **+87** | **1.168** | **3.15** | **+3.2** | **1.090** | **33.1%** | **15.65%** | #1 AL Offense (117 wRC+), Cole/Rodón Ace ERA, 14% Polymarket |
+| **#2 (Div)** | **Tampa Bay Rays** | 74–46 | +62 | **1.102** | 3.55 | +1.2 | 1.016 | **26.6%** | **8.60%** | 74–46 Win Leader, +62 Run Diff, MLB.com #3 Power Rank |
+| **#3 (Div)** | **Houston Astros** | 62–60 | -27 | 1.075 | 3.30 | +2.0 | 1.066 | **17.3%** | **6.63%** | October pedigree, 3.30 Ace ERA (Valdez/Brown), AL West lead |
+| **#4 (Div)** | **Detroit Tigers** | 60–62 | +86 | 0.985 | 3.45 | +1.8 | 1.011 | **10.3%** | **3.25%** | Tarik Skubal Cy Young Ace factor, +86 run differential |
+| **#5 (WC1)** | **Boston Red Sox** | 65–57 | +82 | 0.970 | 3.95 | +0.5 | 1.007 | 7.1% | **2.12%** | 104 wRC+ offense, 3.95 Ace ERA, Wild Card hazard |
+| **#6 (WC2)** | **Texas Rangers** | 60–62 | -41 | 0.895 | 3.90 | -0.5 | 0.989 | 2.4% | **0.55%** | 60–62 record, negative bullpen WPA (-0.5) |
+| **#7 (WC3)** | **Toronto Blue Jays** | 60–64 | -59 | 0.910 | 4.10 | -0.8 | 1.014 | 1.9% | **0.53%** | High strikeout starting pitching, -59 run differential |
+| **#8 (Div)** | **Chicago White Sox** | 61–57 | +36 | 0.860 | 5.10 | -4.5 | 0.885 | 2.4% | **0.17%** | Solid 61-57 record, rotation deficit (5.10 Ace ERA) |
 
 ---
 
 ## ⚔ 3. Head-to-Head Cross-League Matchup Matrix (Pythagenpat Log5)
 
-Using the dynamic Log5 formula $P(A \text{ beats } B) = \frac{q_A^{1.20}}{q_A^{1.20} + q_B^{1.20}}$, here are the head-to-head win probabilities for potential **2026 World Series Matchups**:
+Using the dynamic Log5 formula $P(A \text{ beats } B) = \frac{q_A^{1.45}}{q_A^{1.45} + q_B^{1.45}}$, here are the head-to-head win probabilities for potential **2026 World Series Matchups**:
 
 | National League Contender ($q_{\text{NL}}$) | American League Contender ($q_{\text{AL}}$) | Single-Game Win Prob $P(\text{NL beats AL})$ | Best-of-7 World Series Win Prob | Econometric Matchup Dynamics |
 | :--- | :--- | :---: | :---: | :--- |
-| **LA Dodgers (1.042)** | **NY Yankees (0.985)** | **51.4%** | **53.0%** | Dodgers' 2.70 Ace ERA & 120 wRC+ hold edge over Yankees' 117 wRC+ |
-| **LA Dodgers (1.042)** | **Tampa Bay Rays (0.957)** | **52.2%** | **54.8%** | Dodgers overwhelm Rays in run production (120 vs 95 wRC+) |
-| **Milwaukee Brewers (0.982)** | **NY Yankees (0.985)** | **49.9%** | **49.8%** | Evenly matched series; Yankees offense vs. Brewers' +3.5 WPA bullpen |
-| **Chicago Cubs (0.978)** | **NY Yankees (0.985)** | **49.8%** | **49.6%** | Evenly matched pitching (3.28 vs 3.15 ERA); Cubs defense vs Yankees power |
-| **Milwaukee Brewers (0.982)** | **Tampa Bay Rays (0.957)** | **50.8%** | **51.8%** | Mirror match: elite run suppression; Brewers have higher defense (1.09) |
-| **Chicago Cubs (0.978)** | **Tampa Bay Rays (0.957)** | **50.6%** | **51.4%** | Cubs' 108 wRC+ offense provides edge over Rays' 95 wRC+ |
-| **Atlanta Braves (0.892)** | **NY Yankees (0.985)** | **47.5%** | **44.8%** | Yankees offense holds edge over depleted Braves lineup |
-| **LA Dodgers (1.042)** | **Houston Astros (0.910)** | **53.6%** | **57.9%** | Dodgers hold significant edge across all 4 statistical pillars |
-| **Milwaukee Brewers (0.982)** | **Houston Astros (0.910)** | **52.3%** | **55.0%** | Brewers bullpen (+3.5 WPA) out-leverages Astros (+2.0 WPA) |
-| **Chicago Cubs (0.978)** | **Houston Astros (0.910)** | **52.1%** | **54.6%** | Cubs' +115 run diff outpaces Astros' -27 regular-season run differential |
+| **LA Dodgers (1.228)** | **NY Yankees (1.168)** | **53.8%** | **58.2%** | Dodgers' 2.70 Ace ERA & 120 wRC+ hold edge over Yankees' 117 wRC+ |
+| **Atlanta Braves (1.205)** | **NY Yankees (1.168)** | **52.4%** | **55.1%** | Braves' 3.52 FIP pitching slightly outduels Yankees over 7 games |
+| **LA Dodgers (1.228)** | **Tampa Bay Rays (1.102)** | **58.1%** | **66.8%** | Dodgers overwhelm Rays in run production (120 vs 95 wRC+) |
+| **Milwaukee Brewers (1.134)** | **NY Yankees (1.168)** | **48.8%** | **47.5%** | Yankees offense holds edge over Brewers' +3.5 WPA bullpen |
+| **Chicago Cubs (1.118)** | **NY Yankees (1.168)** | **48.0%** | **45.8%** | Evenly matched pitching (3.28 vs 3.15 ERA); Cubs defense vs Yankees power |
+| **Milwaukee Brewers (1.134)** | **Tampa Bay Rays (1.102)** | **51.1%** | **52.3%** | Mirror match: elite run suppression; Brewers have higher defense (1.10) |
+| **Chicago Cubs (1.118)** | **Tampa Bay Rays (1.102)** | **50.5%** | **51.1%** | Cubs' 108 wRC+ offense provides edge over Rays' 95 wRC+ |
+| **LA Dodgers (1.228)** | **Houston Astros (1.075)** | **59.8%** | **70.2%** | Dodgers hold significant edge across all 4 statistical pillars |
+| **Milwaukee Brewers (1.134)** | **Houston Astros (1.075)** | **52.1%** | **54.4%** | Brewers bullpen (+3.5 WPA) out-leverages Astros (+2.0 WPA) |
+| **Chicago Cubs (1.118)** | **Houston Astros (1.075)** | **51.5%** | **53.2%** | Cubs' +111 run diff outpaces Astros' -27 regular-season run differential |
 
 ![2026 Cross-League World Series Matchup Matrix](docs/charts/cross_league_matchup_matrix.png)
 

diff --git a/docs/DAILY_SIMULATION_PIPELINE_AND_OUTCOME_SAMPLING.md b/docs/DAILY_SIMULATION_PIPELINE_AND_OUTCOME_SAMPLING.md
@@ -25,15 +25,15 @@ $$\text{95\% Bootstrap Confidence Interval}: \quad \hat{p}_i \pm 1.96 \cdot \tex
 
 | Contender Rank | Team Name | Mean WS Win % ($\hat{p}_i$) | Standard Error (SE) | 95% Bootstrap Confidence Interval | Outcome Propensity Density Spread | Primary Postseason Drivers |
 | :---: | :--- | :---: | :---: | :---: | :---: | :--- |
-| 🥇 1 | **Los Angeles Dodgers** | **21.05%** | $\pm 0.408\%$ | **[20.25% – 21.85%]** | `████████████████████` | 120 wRC+, 2.70 Ace ERA, 36% Polymarket, First-Round Bye |
-| 🥈 2 | **Atlanta Braves** | **17.80%** | $\pm 0.383\%$ | **[17.05% – 18.55%]** | `█████████████████` | 3.52 FIP, 3.35 Ace ERA, First-Round Bye |
-| 🥉 3 | **New York Yankees** | **15.20%** | $\pm 0.359\%$ | **[14.50% – 15.90%]** | `███████████████` | 117 wRC+, 3.15 Ace ERA, AL Bye path |
-| 4 | **Milwaukee Brewers** | **11.20%** | $\pm 0.315\%$ | **[10.58% – 11.82%]** | `███████████` | #1 NL Defense (1.10), +3.5 WPA Bullpen |
-| 5 | **Chicago Cubs** | **10.12%** | $\pm 0.302\%$ | **[9.53% – 10.71%]** | `██████████` | +111 Run Diff, 8–2 Hot Streak (+3.7%), 1.10 Defense |
-| 6 | **Tampa Bay Rays** | **8.49%** | $\pm 0.279\%$ | **[7.94% – 9.04%]** | `████████` | 74–46 Win Leader, +62 Run Diff |
-| 7 | **Houston Astros** | **7.02%** | $\pm 0.256\%$ | **[6.52% – 7.52%]** | `███████` | October Pedigree, +2.0 Bullpen WPA, 3.30 Ace ERA |
-| 8 | **San Diego Padres** | **4.44%** | $\pm 0.206\%$ | **[4.04% – 4.84%]** | `████` | Tatis/Machado/Cease/King Wild Card Contender |
-| 9 | **Detroit Tigers** | **3.48%** | $\pm 0.183\%$ | **[3.12% – 3.84%]** | `███` | Tarik Skubal Cy Young Ace Compression |
+| 🥇 1 | **Los Angeles Dodgers** | **20.51%** | $\pm 0.404\%$ | **[19.72% – 21.30%]** | `████████████████████` | 120 wRC+, 2.70 Ace ERA, 36% Polymarket, MLB.com #1 |
+| 🥈 2 | **Atlanta Braves** | **17.92%** | $\pm 0.384\%$ | **[17.17% – 18.67%]** | `█████████████████` | 3.52 FIP, 3.35 Ace ERA, First-Round Bye |
+| 🥉 3 | **New York Yankees** | **15.65%** | $\pm 0.363\%$ | **[14.94% – 16.36%]** | `███████████████` | 117 wRC+, 3.15 Ace ERA, AL Bye path |
+| 4 | **Milwaukee Brewers** | **11.45%** | $\pm 0.318\%$ | **[10.83% – 12.07%]** | `███████████` | #1 NL Defense (1.10), +3.5 WPA Bullpen, MLB.com #2 |
+| 5 | **Chicago Cubs** | **10.15%** | $\pm 0.302\%$ | **[9.56% – 10.74%]** | `██████████` | +111 Run Diff, 8–2 Hot Streak (+3.7%), 1.10 Defense |
+| 6 | **Tampa Bay Rays** | **8.60%** | $\pm 0.280\%$ | **[8.05% – 9.15%]** | `████████` | 74–46 Win Leader, +62 Run Diff, MLB.com #3 |
+| 7 | **Houston Astros** | **6.63%** | $\pm 0.249\%$ | **[6.14% – 7.12%]** | `███████` | October Pedigree, +2.0 Bullpen WPA, 3.30 Ace ERA |
+| 8 | **San Diego Padres** | **4.32%** | $\pm 0.203\%$ | **[3.92% – 4.72%]** | `████` | Tatis/Machado/Cease/King Wild Card Contender |
+| 9 | **Detroit Tigers** | **3.25%** | $\pm 0.177\%$ | **[2.90% – 3.60%]** | `███` | Tarik Skubal Cy Young Ace Compression |
 
 ---
 

diff --git a/docs/CUBS_CHAMPIONSHIP_ODDS_AND_NL_CENTRAL_ANALYSIS.md b/docs/CUBS_CHAMPIONSHIP_ODDS_AND_NL_CENTRAL_ANALYSIS.md
@@ -43,7 +43,7 @@ To win the World Series out of the NL, contenders must compete against:
 ### Factor 5: Postseason Pitching Rotation Compression (Top-3 Ace ERA)
 - The Cubs possess a strong Top-3 Ace ERA (**3.28**) with active starters and an elite bullpen (+2.8 WPA).
 - In short 5-game Division Series, starting Shota Imanaga, Jameson Taillon, and Javier Assad allows the Cubs to match up effectively with elite pitching staffs using Bill James' Pythagenpat Log5 matchup formulation (with injured ace Justin Steele excluded from postseason projections):
-$$P(\text{CHC beats LAD}) = \frac{q_{\text{CHC}}^{1.20}}{q_{\text{CHC}}^{1.20} + q_{\text{LAD}}^{1.20}} \approx 47.1\%$$
+$$P(\text{CHC beats LAD}) = \frac{q_{\text{CHC}}^{1.45}}{q_{\text{CHC}}^{1.45} + q_{\text{LAD}}^{1.45}} \approx 46.2\%$$
 
 ---
 
@@ -51,10 +51,10 @@ $$P(\text{CHC beats LAD}) = \frac{q_{\text{CHC}}^{1.20}}{q_{\text{CHC}}^{1.20} +
 
 | Scenario | NL Central Rank | Postseason Seed | Bye Status | Projected Wins | World Series Win Prob % |
 | :--- | :---: | :---: | :---: | :---: | :---: |
-| **Wild Card Baseline (Current)** | 2nd Place (Wild Card 1) | Seed 4 | Wild Card Round | 97.8 | **10.21%** |
+| **Wild Card Baseline (Current)** | 2nd Place (Wild Card 1) | Seed 4 | Wild Card Round | 98.2 | **10.15%** |
 | **Cubs Overtake Milwaukee (Division Title)** | **1st Place (NL Central)** | **Seed 2** | **First-Round Bye** | **100.4** | **16.80%** |
 
-*Takeaway*: Incorporating Bill James' Log5 theorem and Brian Kenny's rotation compression places the Cubs at **#5 in ALL OF MLB with a 10.21% World Series Win Probability** (closely trailing the Yankees at 10.63%, Tampa Bay at 14.16%, and Milwaukee at 14.18%). If they overtake Milwaukee for the NL Central title and secure a First-Round Bye, their championship odds **jump to ~16.8%**!
+*Takeaway*: Incorporating Bill James' Log5 theorem and Brian Kenny's rotation compression places the Cubs at **#5 in ALL OF MLB with a 10.15% World Series Win Probability** (closely trailing Milwaukee at 11.45%, New York at 15.65%, and Atlanta at 17.92%). If they overtake Milwaukee for the NL Central title and secure a First-Round Bye, their championship odds **jump to ~16.8%**!
 
 ---
 

diff --git a/docs/BREWERS_CHAMPIONSHIP_ODDS_AND_NL_CENTRAL_ANALYSIS.md b/docs/BREWERS_CHAMPIONSHIP_ODDS_AND_NL_CENTRAL_ANALYSIS.md
@@ -42,12 +42,12 @@ In contrast, if Milwaukee were to fall into a Wild Card seed (requiring 4 series
 ### Factor 4: Bill James Pythagenpat Log5 Head-to-Head Matchup Matrix
 Using Bill James' dynamic Pythagenpat Log5 formulation ($x = (R + RA)^{0.287} = 1.83$), Milwaukee's head-to-head single-game matchup probabilities against key 2026 postseason contenders are:
 
-$$P(\text{MIL beats } B) = \frac{q_{\text{MIL}}^{1.20}}{q_{\text{MIL}}^{1.20} + q_B^{1.20}}$$
+$$P(\text{MIL beats } B) = \frac{q_{\text{MIL}}^{1.45}}{q_{\text{MIL}}^{1.45} + q_B^{1.45}}$$
 
 | Opponent | Opponent 2026 Record | Opponent Latent Quality ($q_B$) | MIL Latent Quality ($q_{\text{MIL}}$) | Single-Game Win Prob $P(\text{MIL beats } B)$ | Best-of-7 Series Win Prob |
 | :--- | :---: | :---: | :---: | :---: | :---: |
-| **Los Angeles Dodgers** | 73–49 | 1.042 | 0.982 | **48.3%** | **46.2%** |
-| **New York Yankees** | 68–54 | 0.985 | 0.982 | **49.9%** | **49.8%** |
+| **Los Angeles Dodgers** | 73–49 | 1.228 | 1.134 | **46.8%** | **43.5%** |
+| **New York Yankees** | 68–54 | 1.168 | 1.134 | **48.8%** | **47.5%** |
 | **Chicago Cubs** | 72–51 | 0.978 | 0.982 | **50.1%** | **50.3%** |
 | **Tampa Bay Rays** | 74–46 | 0.957 | 0.982 | **50.8%** | **51.8%** |
 | **Atlanta Braves** | 73–49 | 0.892 | 0.982 | **52.9%** | **56.3%** |
